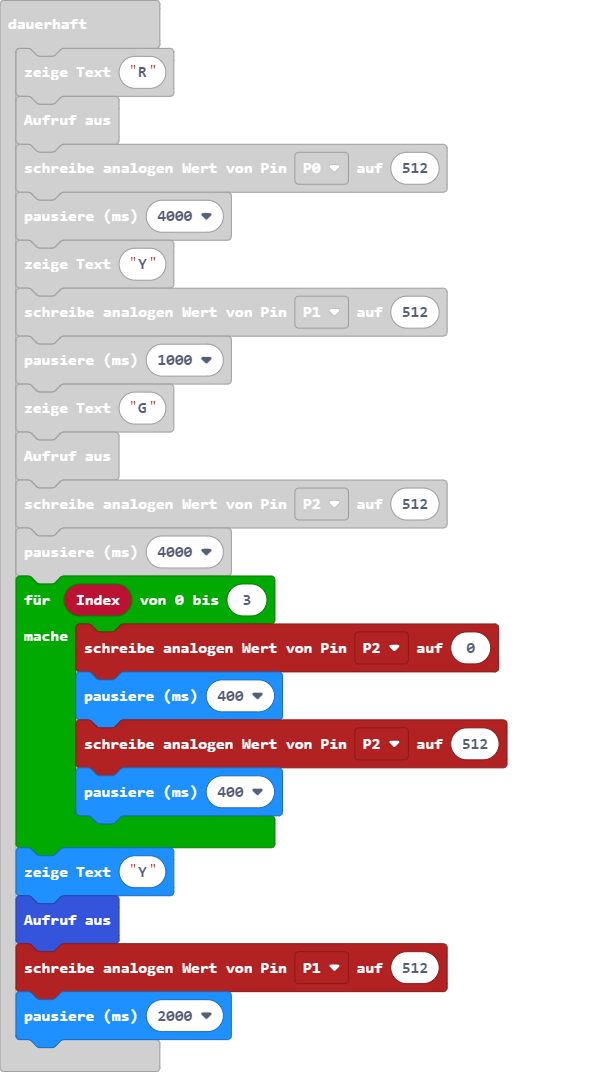
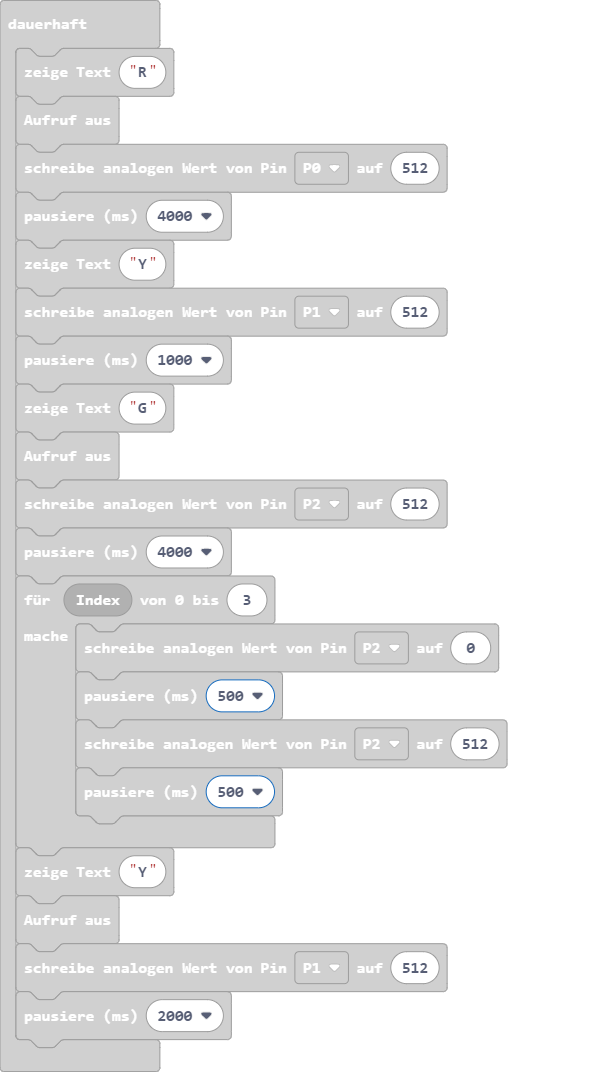
Aktualisiere main.blocks, main.ts

Changed region(s): [[0.0, 0.5233, 0.8396, 0.9851]]

diff --git a/main.ts b/main.ts
@@ -18,9 +18,9 @@ basic.forever(function () {
     basic.pause(4000)
     for (let Index = 0; Index <= 3; Index++) {
         pins.analogWritePin(AnalogPin.P2, 0)
-        basic.pause(400)
+        basic.pause(500)
         pins.analogWritePin(AnalogPin.P2, 512)
-        basic.pause(400)
+        basic.pause(500)
     }
     basic.showString("Y")
     aus()
